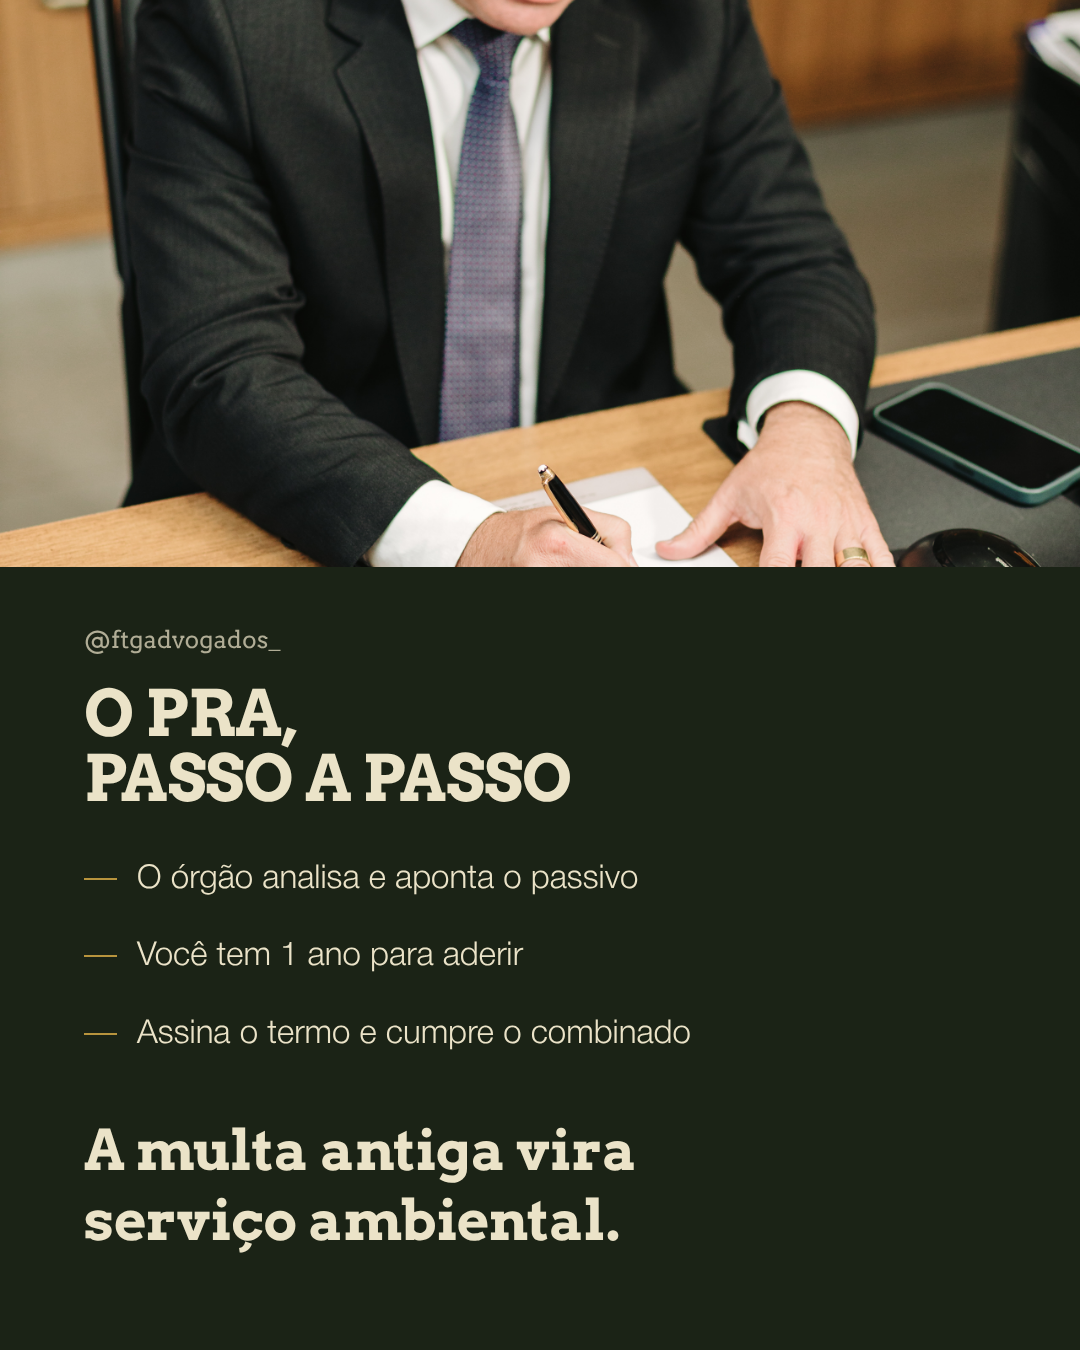
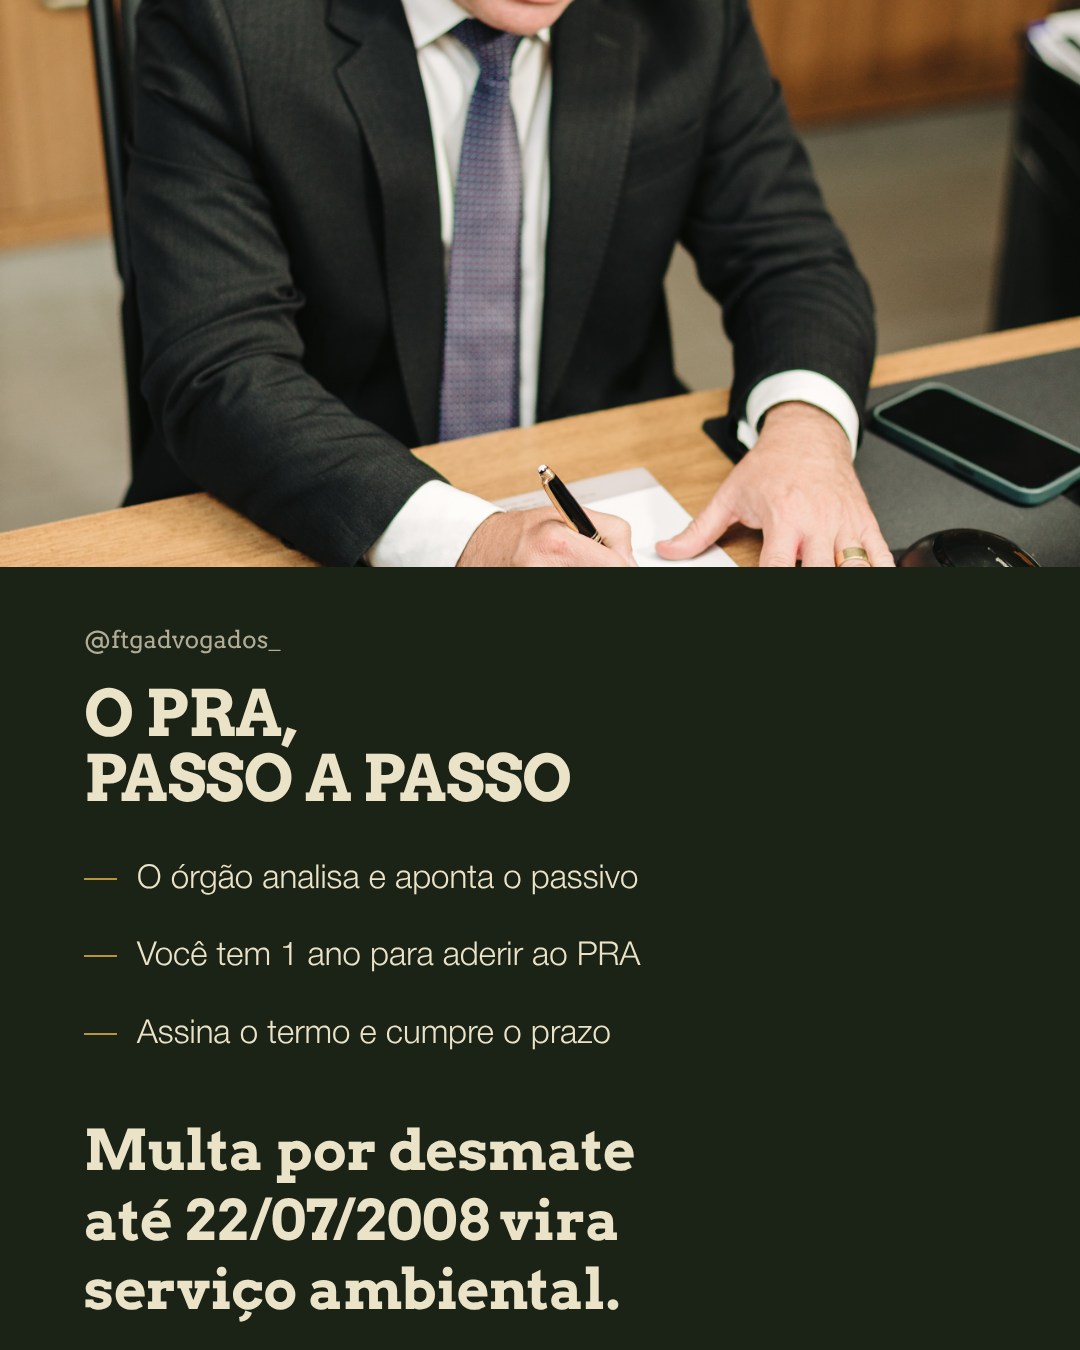
Devolve a data de 22/07/2008 à tela do PRA
Tinha caído pra fazer o texto caber, e sem ela parecia que qualquer
multa velha vira serviço ambiental. Regra escrita no formato 01.

Claude-Session: https://claude.ai/code/session_01PNm9HeejNLCDTQ5J6fF2k9

Changed region(s): [[0.0611, 0.8089, 0.5806, 0.9956], [0.4889, 0.7467, 0.6417, 0.7778], [0.4889, 0.6844, 0.5806, 0.7156]]

diff --git a/docs/gorayeb/formato-01.md b/docs/gorayeb/formato-01.md
@@ -114,6 +114,26 @@ A cor sai sozinha do texto do selo. Pra forçar outra, `seloCor`. **O selo só e
 na capa**, nunca no miolo, e quando ele aparece a etiqueta de assunto da capa 1 é
 opcional: as duas juntas pesam.
 
+## Quando o texto encolhe
+
+Tela não é lugar de apertar texto. Mas quando ele não cabe, **corta item, nunca
+condição**. Em 03/11 a tela do PRA perdeu o "anterior a 22/07/2008" pra caber, e
+com ele perdeu o sentido: sem a data, parecia que qualquer multa velha vira
+serviço ambiental. O Victor pegou.
+
+A ordem pra encurtar é esta:
+
+1. Tirar palavra que não carrega informação ("o próprio", "na prática").
+2. Tirar um item inteiro da lista.
+3. Mudar o tipo da tela, que é o que costuma resolver de verdade.
+
+Data, prazo, percentual e condição são a informação. Se eles não couberem, a
+tela está errada, não o texto.
+
+**Medidas que já doeram:** em `lista` com `meiaFoto`, item acima de 35
+caracteres quebra em duas linhas, e o remate acima de 45 cai pra fora da tela.
+Em `itens`, menos de três itens deixa meia tela vazia.
+
 ## O que entra no miolo
 
 Alternar. Nenhum fundo repete dentro do mesmo carrossel.
